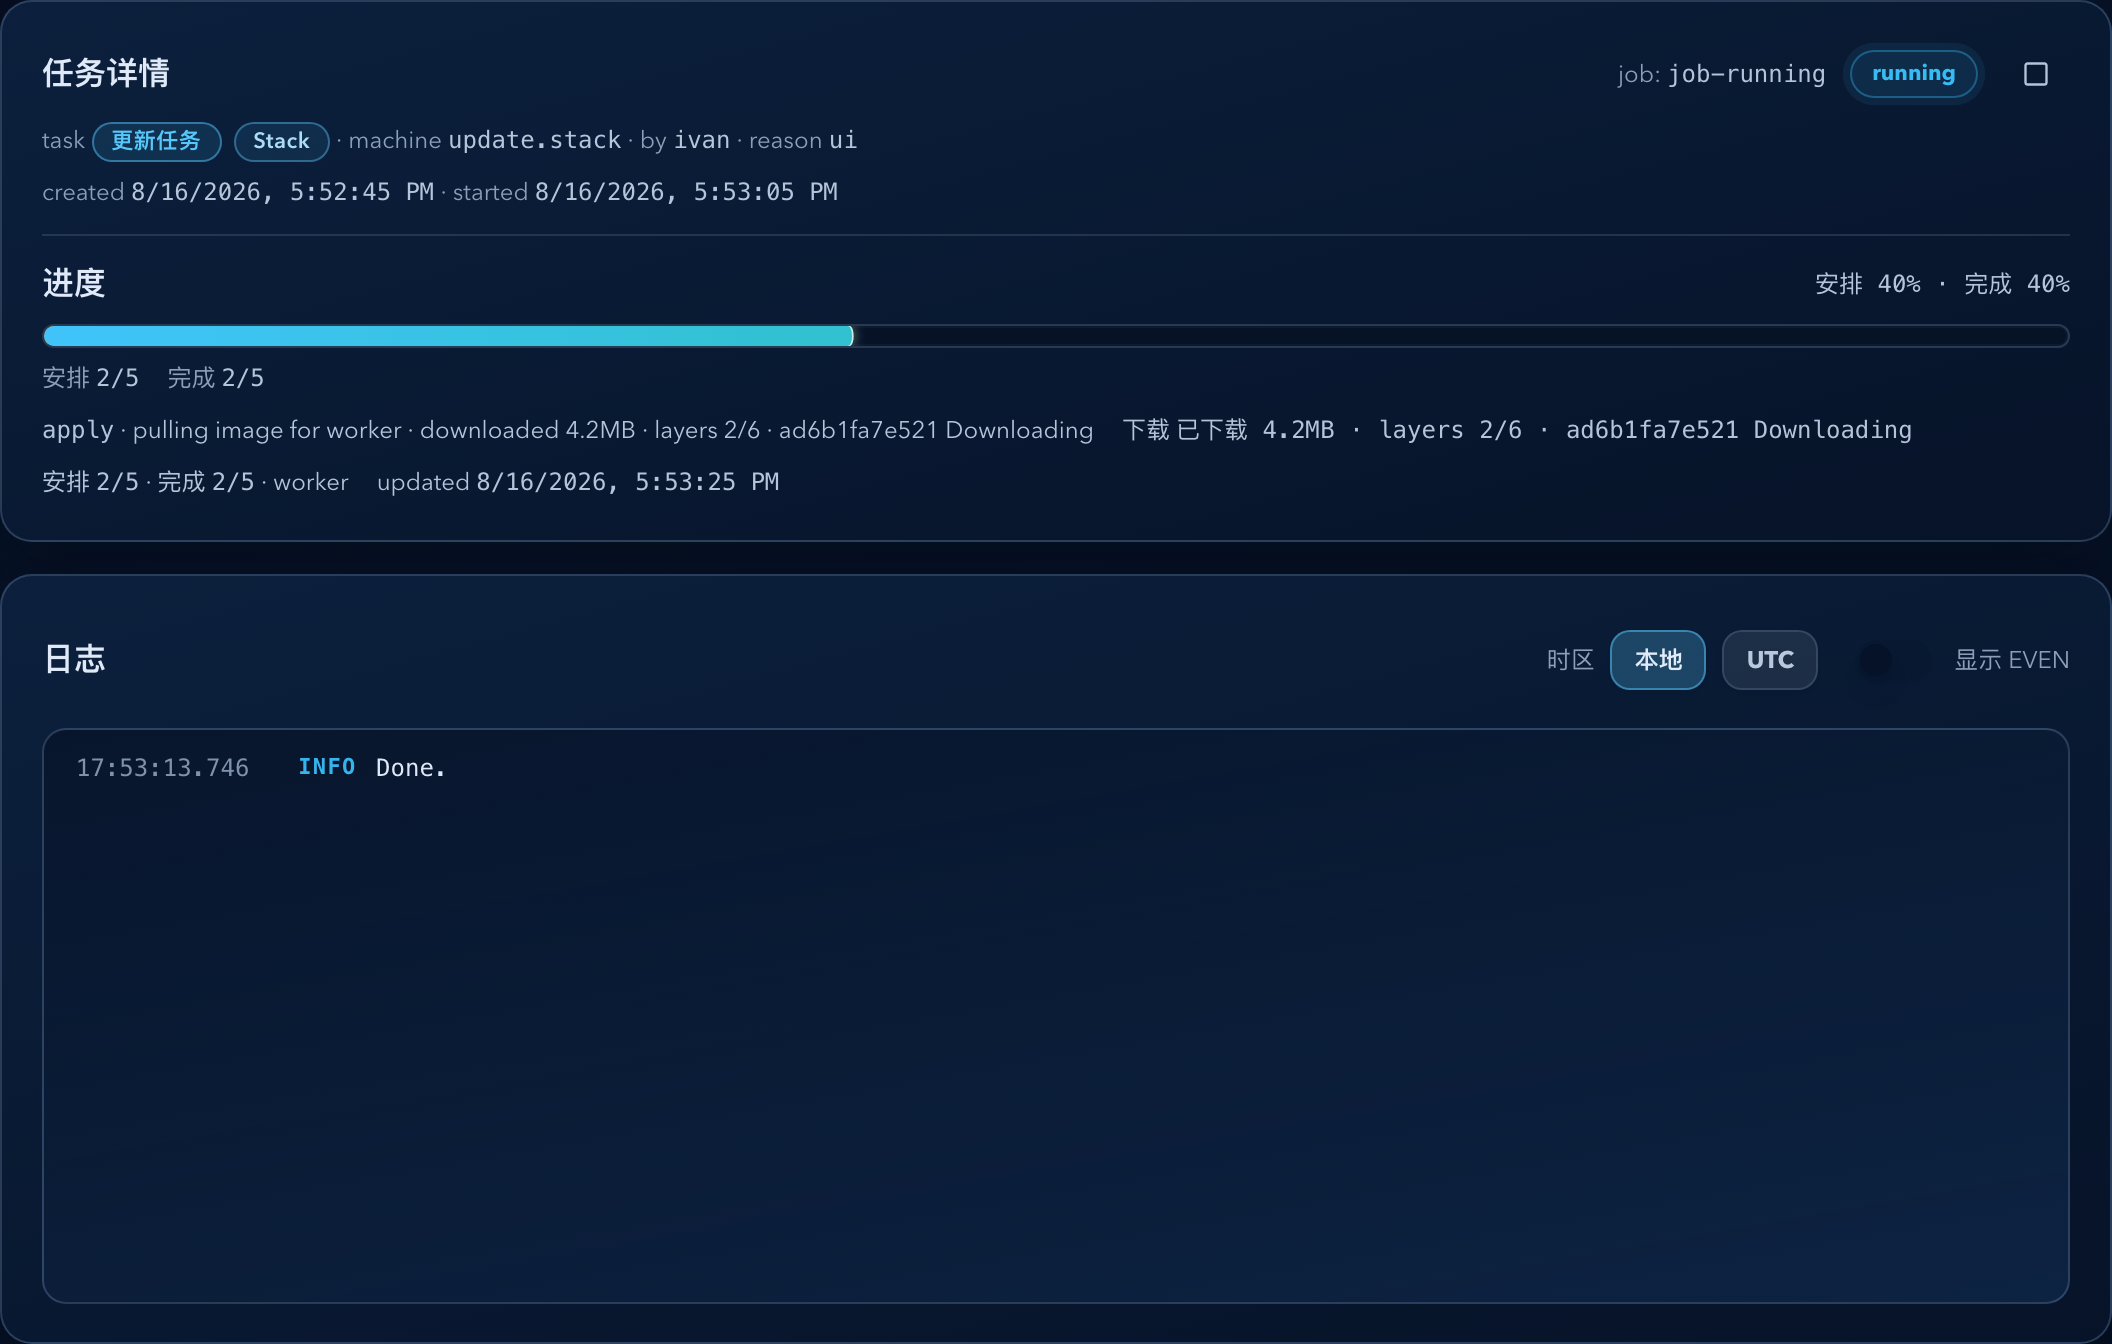
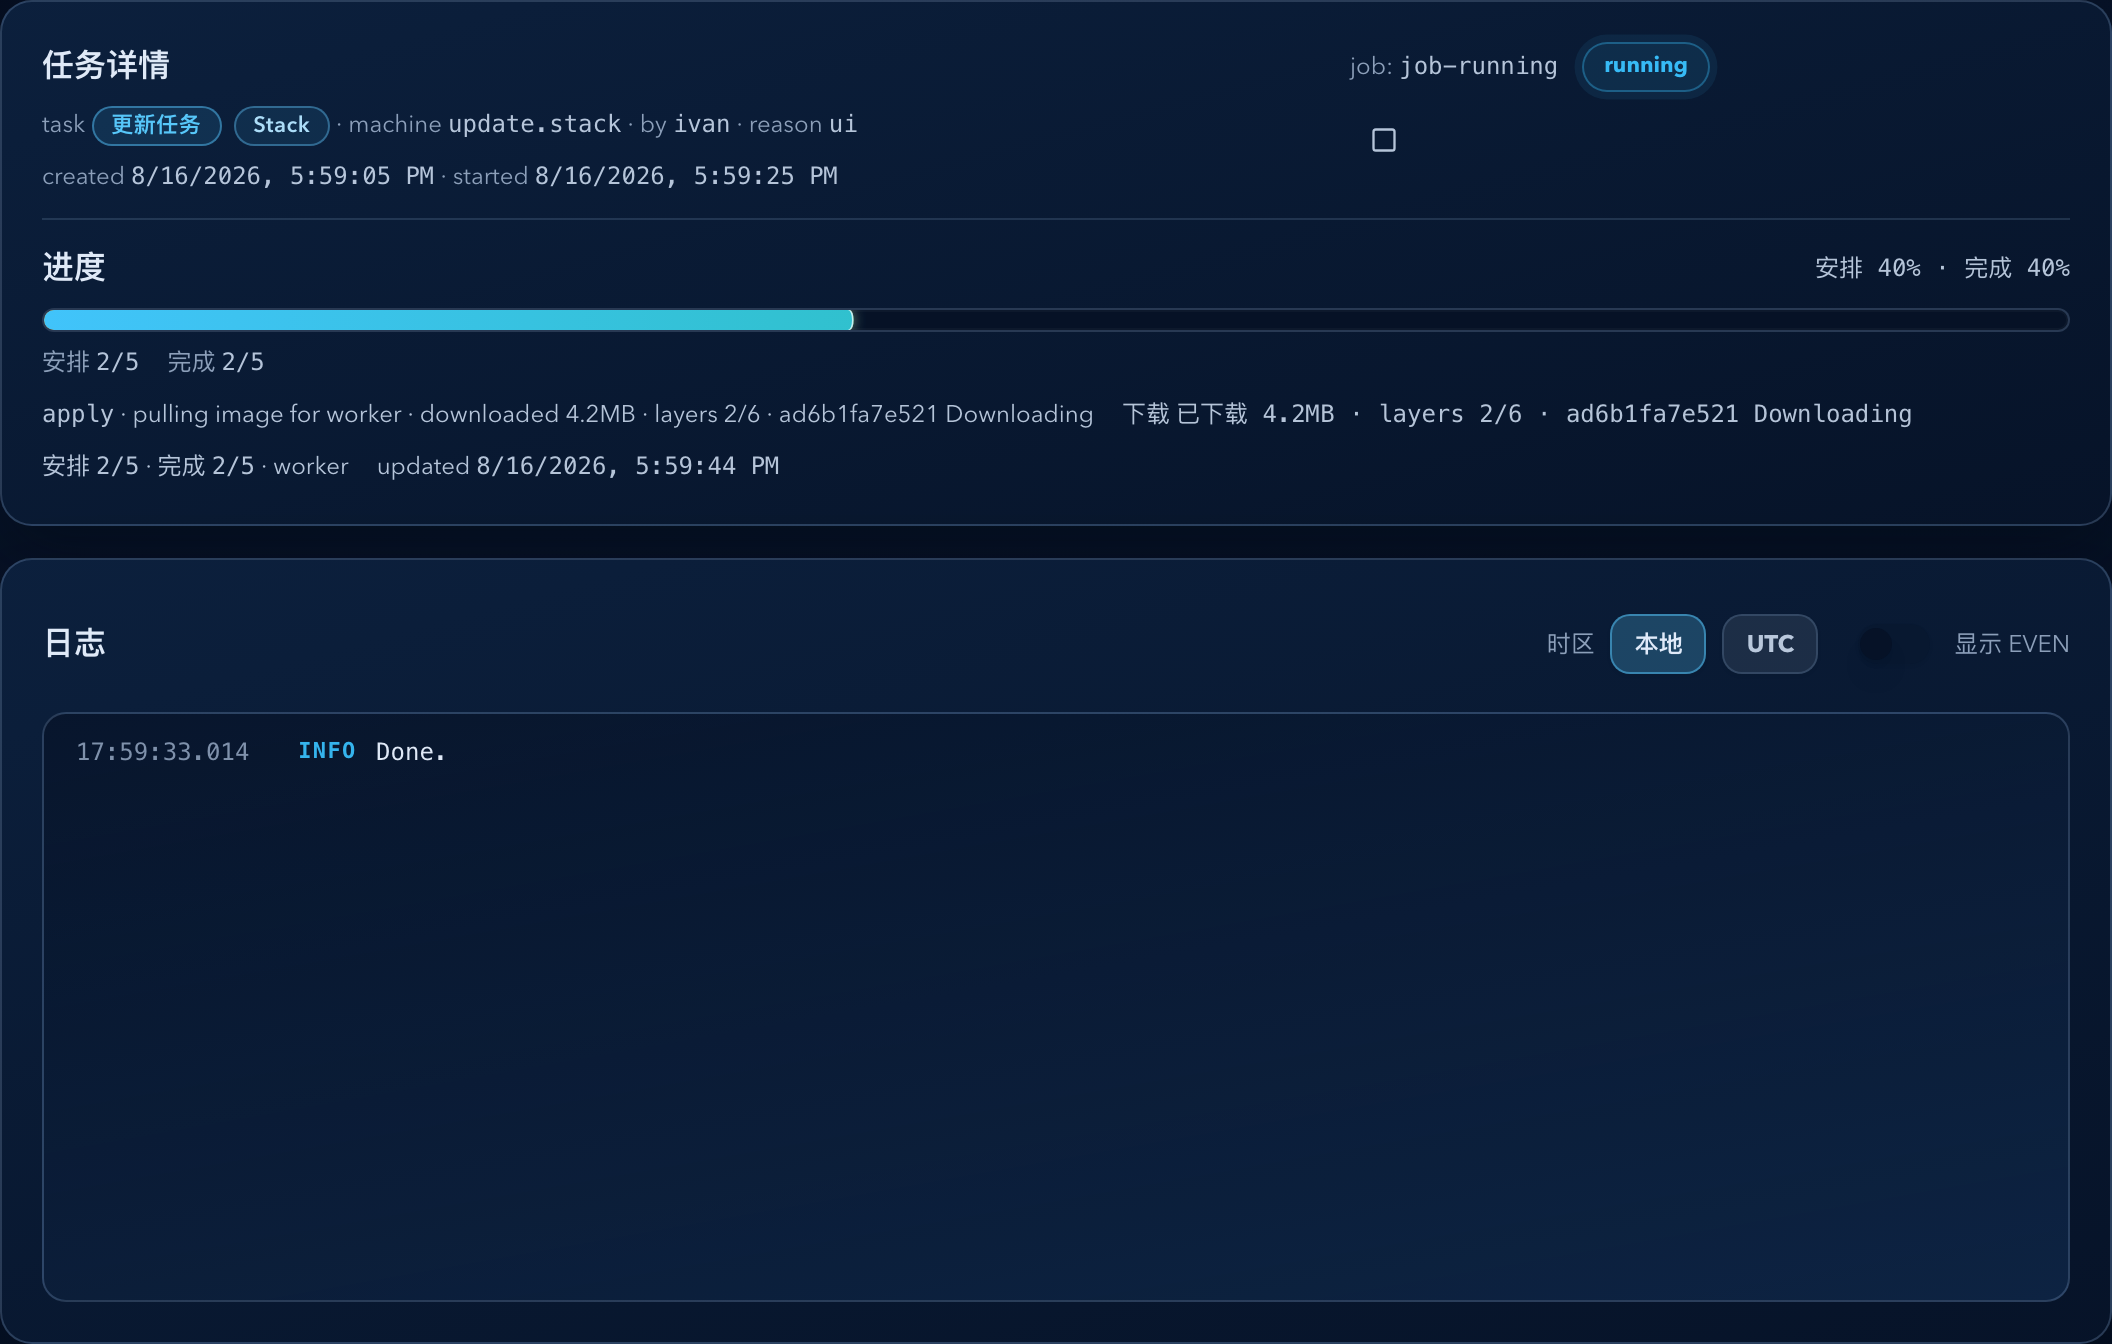
fix(web): align update stop action

diff --git a/web/src/pages/JobDetailPage.tsx b/web/src/pages/JobDetailPage.tsx
@@ -585,50 +585,59 @@ export function JobDetailPage(props: { jobId: string; onTopActions: (node: React
   return (
     <div className="page jobDetailPage">
       <div className="card">
-        <div className="sectionRow">
-          <div className="title">任务详情</div>
-          <div className="muted" style={{ marginLeft: 'auto' }}>
-            job: <Mono>{jobId}</Mono>
+        <div className="jobDetailHeader">
+          <div className="jobDetailHeaderInfo">
+            <div className="title">任务详情</div>
+            {job ? (
+              <div className="muted" style={{ marginTop: 8 }}>
+                <div>
+                  task{' '}
+                  <span className="jobReadableTagGroup">
+                    <span className={`jobTypeTag jobTypeTag-${readable.typeTone}`}>{readable.primaryLabel}</span>
+                    {readable.scopeTag ? <span className="jobScopeTag">{readable.scopeTag}</span> : null}
+                  </span>{' '}
+                  · machine{' '}
+                  <Mono>{formatJobMachineName(job.type, job.scope)}</Mono> · by <Mono>{job.createdBy}</Mono> · reason{' '}
+                  <Mono>{job.reason}</Mono>
+                </div>
+                <div style={{ marginTop: 6 }}>
+                  created <Mono>{formatShort(job.createdAt)}</Mono> · started <Mono>{formatShort(job.startedAt)}</Mono>
+                  {job.status !== 'running' ? (
+                    <>
+                      {' '}
+                      · finished <Mono>{formatShort(job.finishedAt)}</Mono>
+                    </>
+                  ) : null}
+                </div>
+              </div>
+            ) : null}
           </div>
-          {job ? (
-            <Pill tone={statusTone(job.status)} breathing={job.status === 'running'}>
-              {job.status}
-            </Pill>
-          ) : null}
-          {job?.stop?.canStop ? (
-            <IconButton className="jobDetailStopControl" variant="danger" disabled={busy} onClick={() => void requestStop()} title="停止更新">
-              <Square size={14} aria-hidden="true" />
-            </IconButton>
-          ) : job?.status === 'cancelled' ? (
-            <span className="jobDetailStopState">已停止</span>
-          ) : job?.stop?.state === 'requested' ? (
-            <span className="jobDetailStopState">正在停止</span>
-          ) : null}
-        </div>
 
-        {job ? (
-          <div className="muted" style={{ marginTop: 8 }}>
-            <div>
-              task{' '}
-              <span className="jobReadableTagGroup">
-                <span className={`jobTypeTag jobTypeTag-${readable.typeTone}`}>{readable.primaryLabel}</span>
-                {readable.scopeTag ? <span className="jobScopeTag">{readable.scopeTag}</span> : null}
-              </span>{' '}
-              · machine{' '}
-              <Mono>{formatJobMachineName(job.type, job.scope)}</Mono> · by <Mono>{job.createdBy}</Mono> · reason{' '}
-              <Mono>{job.reason}</Mono>
+          <div className="jobDetailHeaderAside">
+            <div className="jobDetailIdentity">
+              <div className="muted">
+                job: <Mono>{jobId}</Mono>
+              </div>
+              {job ? (
+                <Pill tone={statusTone(job.status)} breathing={job.status === 'running'}>
+                  {job.status}
+                </Pill>
+              ) : null}
             </div>
-            <div style={{ marginTop: 6 }}>
-              created <Mono>{formatShort(job.createdAt)}</Mono> · started <Mono>{formatShort(job.startedAt)}</Mono>
-              {job.status !== 'running' ? (
-                <>
-                  {' '}
-                  · finished <Mono>{formatShort(job.finishedAt)}</Mono>
-                </>
+            <div className="jobDetailStopSlot">
+              {job?.stop?.canStop ? (
+                <IconButton className="jobDetailStopControl" variant="danger" disabled={busy} onClick={() => void requestStop()} title="停止更新">
+                  <Square size={14} aria-hidden="true" />
+                </IconButton>
+              ) : job?.status === 'cancelled' ? (
+                <span className="jobDetailStopState">已停止</span>
+              ) : job?.stop?.state === 'requested' ? (
+                <span className="jobDetailStopState">正在停止</span>
               ) : null}
             </div>
           </div>
-        ) : null}
+        </div>
+
         {progress ? (
           <div className="jobProgress">
             <div className="jobProgressHeader">

diff --git a/web/src/App.css b/web/src/App.css
@@ -2467,6 +2467,33 @@ html[data-theme="light"] .releaseDrawerContent {
   color: var(--muted);
 }
 
+.jobDetailHeader {
+  display: grid;
+  grid-template-columns: minmax(0, 1fr) minmax(280px, 360px);
+  gap: 16px 24px;
+}
+
+.jobDetailHeaderAside {
+  display: grid;
+  align-content: start;
+  gap: 8px;
+  min-width: 0;
+}
+
+.jobDetailIdentity {
+  display: flex;
+  align-items: center;
+  gap: 12px;
+  min-width: 0;
+}
+
+.jobDetailStopSlot {
+  display: flex;
+  align-items: center;
+  justify-content: flex-start;
+  min-height: 32px;
+}
+
 .jobDetailStopControl.btnDanger:not(:disabled):hover {
   background: color-mix(in srgb, var(--color-error) 12%, transparent);
   border-color: color-mix(in srgb, var(--color-error) 62%, var(--borderColor) 38%);
@@ -2484,6 +2511,16 @@ html[data-theme="light"] .releaseDrawerContent {
   font-size: 12px;
   line-height: 28px;
   white-space: nowrap;
+}
+
+@media (max-width: 760px) {
+  .jobDetailHeader {
+    grid-template-columns: minmax(0, 1fr);
+  }
+
+  .jobDetailHeaderAside {
+    gap: 6px;
+  }
 }
 
 .btnGhost {
